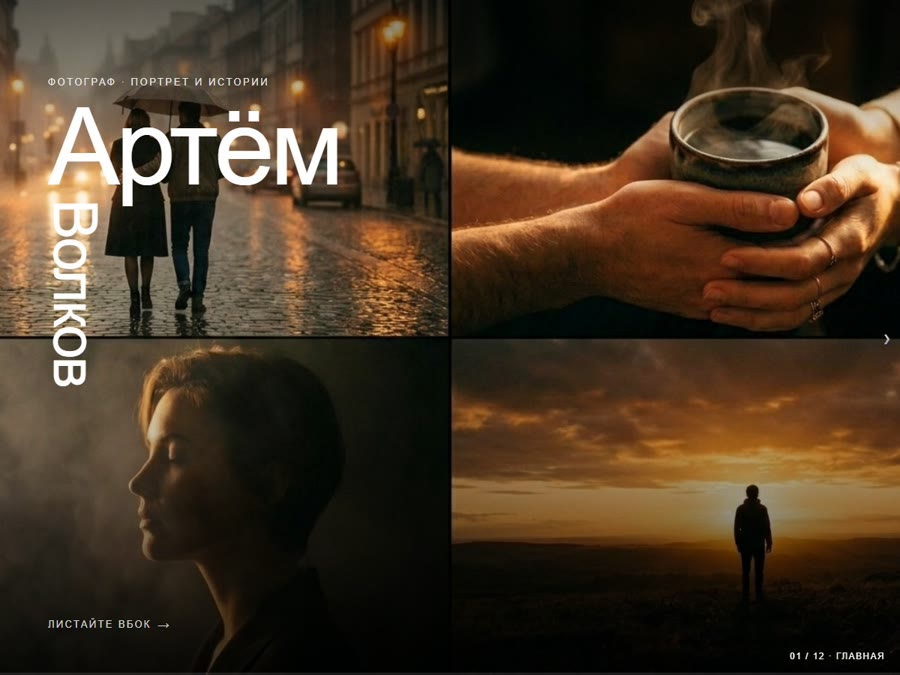
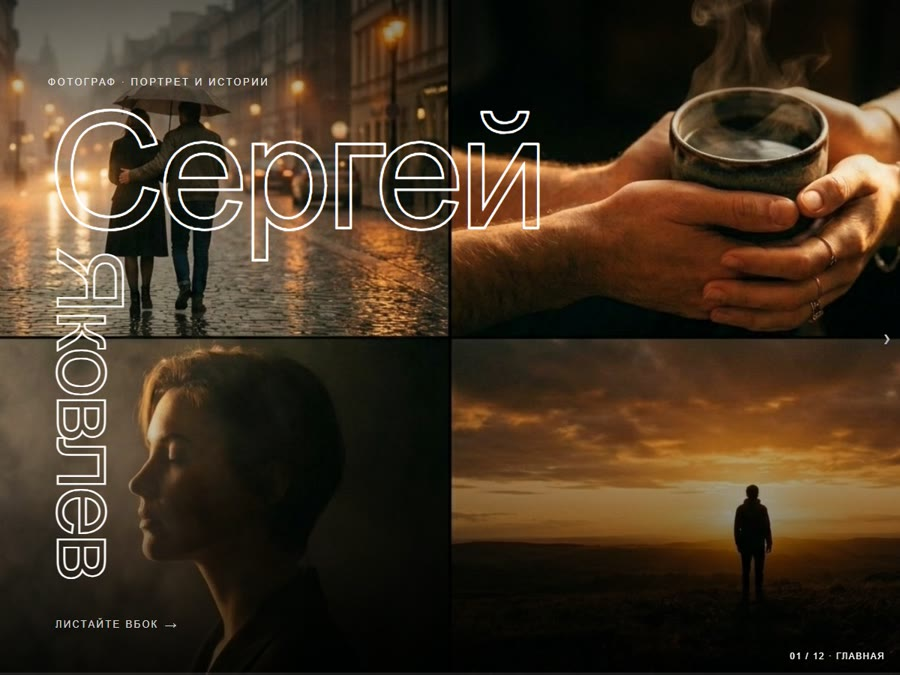
feat(photo-01): контурные заголовки ×1.5 + имя Сергей Яковлев
Крупные заголовки сделаны полыми (прозрачная заливка + обводка): белая
обводка на тёмных/фото-панелях, чёрная — на светлых (Съёмки, О фотографе).
Размер контурных заголовков увеличен в 1.5 раза; остальной текст (подписи,
абзацы, кнопки) не тронут. Имя бренда заменено на «Сергей Яковлев» — в hero,
блоке «О фотографе», футере, email и alt. Превью каталога обновлено.
Ревью мобайл+десктоп, переполнения нет, build зелёный.

Changed region(s): [[0.0311, 0.1556, 0.6222, 0.8711], [0.0622, 0.9022, 0.1867, 0.9333]]

diff --git a/src/photo-01/PhotoLanding.tsx b/src/photo-01/PhotoLanding.tsx
@@ -115,6 +115,11 @@ const PILL_GHOST = `inline-flex ${PILL_BASE}`;
 const PILL_BASE_W =
   "items-center rounded-none border border-white/80 px-4 py-2 text-[15px] sm:text-base text-white transition-colors hover:bg-white hover:text-black";
 
+// Полые (контурные) заголовки: прозрачная заливка + обводка.
+// Белая обводка — на тёмных фото/панелях, чёрная — на светлых.
+const hollowW = (px: number) => ({ color: "transparent", WebkitTextStroke: `${px}px #ffffff` });
+const hollowK = (px: number) => ({ color: "transparent", WebkitTextStroke: `${px}px #000000` });
+
 /* Данные секций. desc — короткое описание прямо на фото. id — вертикальное фото
    (мобайл), wide — широкое 16:9 (десктоп); если wide нет, на десктопе берётся id. */
 const WORKS: { id: PhotoId; wide?: PhotoId; cat: string; title: string; desc: string; year: string }[] = [
@@ -134,7 +139,7 @@ const SERVICES = [
 ];
 
 const CONTACTS = [
-  { label: "hello@artemvolkov.ru", href: "mailto:hello@artemvolkov.ru" },
+  { label: "hello@sergeyyakovlev.ru", href: "mailto:hello@sergeyyakovlev.ru" },
   { label: "Telegram", href: "https://t.me/" },
   { label: "Behance", href: "https://www.behance.net/" },
 ];
@@ -287,13 +292,13 @@ export default function PhotoLanding() {
         <Panel bg="#000000" dark>
           <img
             src={PHOTOS.heroWide.src!}
-            alt="Коллаж работ фотографа Артёма Волкова"
+            alt="Коллаж работ фотографа Сергея Яковлева"
             decoding="async"
             className="absolute inset-0 hidden h-full w-full object-cover sm:block"
           />
           <img
             src={PHOTOS.heroTall.src!}
-            alt="Коллаж работ фотографа Артёма Волкова"
+            alt="Коллаж работ фотографа Сергея Яковлева"
             decoding="async"
             className="absolute inset-0 h-full w-full object-cover sm:hidden"
           />
@@ -312,26 +317,27 @@ export default function PhotoLanding() {
               </span>
               <h1
                 className="mt-3 text-white"
-                style={{ fontWeight: 400, fontSize: "clamp(3.4rem, 12vw, 9rem)", letterSpacing: "-0.04em", lineHeight: 0.9 }}
+                style={{ fontWeight: 400, fontSize: "clamp(5.1rem, 18vw, 13.5rem)", letterSpacing: "-0.04em", lineHeight: 0.9, ...hollowW(2.5) }}
               >
-                Артём
+                Сергей
               </h1>
-              {/* Волков — вертикально, выезжает вниз из-под имени, по левому краю (вровень с «А») */}
+              {/* Яковлев — вертикально, выезжает вниз из-под имени, по левому краю (вровень с «С») */}
               <div className="mt-1 overflow-hidden">
                 <motion.span
                   className="inline-block text-white"
                   style={{
                     writingMode: "vertical-rl",
                     fontWeight: 400,
-                    fontSize: "clamp(2.2rem, 9vh, 6rem)",
+                    fontSize: "clamp(3.3rem, 13.5vh, 9rem)",
                     letterSpacing: "-0.04em",
                     lineHeight: 0.9,
+                    ...hollowW(2),
                   }}
                   initial={reduceMotion ? false : { y: "-100%" }}
                   animate={reduceMotion ? undefined : { y: "0%" }}
                   transition={{ duration: 1, delay: 0.2, ease: [0.16, 1, 0.3, 1] }}
                 >
-                  Волков
+                  Яковлев
                 </motion.span>
               </div>
             </div>
@@ -369,8 +375,8 @@ export default function PhotoLanding() {
                 Вступление
               </span>
               <p
-                className="mt-6 max-w-[20ch] text-[clamp(2rem,5.5vw,4.5rem)] text-white"
-                style={{ fontWeight: 400, letterSpacing: "-0.03em", lineHeight: 1.02 }}
+                className="mt-6 max-w-[20ch] text-[clamp(3rem,8.25vw,6.75rem)] text-white"
+                style={{ fontWeight: 400, letterSpacing: "-0.03em", lineHeight: 1.02, ...hollowW(1.5) }}
               >
                 Снимаю людей и то, что между ними.
               </p>
@@ -405,7 +411,7 @@ export default function PhotoLanding() {
                 <div className={`${WRAP} pb-16 sm:pb-20`}>
                   <Reveal>
                     <span className="text-[13px] uppercase tracking-[0.16em]" style={{ color: RED }}>{w.cat}</span>
-                    <h2 className="mt-3 text-white text-[clamp(2.6rem,8vw,5rem)]" style={{ fontWeight: 400, letterSpacing: "-0.03em", lineHeight: 0.96 }}>
+                    <h2 className="mt-3 text-white text-[clamp(3.9rem,12vw,7.5rem)]" style={{ fontWeight: 400, letterSpacing: "-0.03em", lineHeight: 0.96, ...hollowW(2) }}>
                       {w.title}
                     </h2>
                     <p className="mt-3 max-w-[42ch] text-[16px] leading-[1.45] text-white/85 sm:text-[18px]">{w.desc}</p>
@@ -429,8 +435,8 @@ export default function PhotoLanding() {
                 Подход
               </span>
               <h2
-                className="mt-5 max-w-[16ch] text-[clamp(2.4rem,7vw,6rem)]"
-                style={{ fontWeight: 400, letterSpacing: "-0.03em", lineHeight: 0.98 }}
+                className="mt-5 max-w-[16ch] text-[clamp(3.6rem,10.5vw,9rem)]"
+                style={{ fontWeight: 400, letterSpacing: "-0.03em", lineHeight: 0.98, ...hollowW(1.5) }}
               >
                 Снимаю не лица, а то, что за ними.
               </h2>
@@ -451,8 +457,8 @@ export default function PhotoLanding() {
           <div className={`${WRAP} flex h-full flex-col justify-center`}>
             <Reveal>
               <h2
-                className="text-[clamp(2.2rem,5vw,3.5rem)]"
-                style={{ fontWeight: 600, letterSpacing: "-0.02em", lineHeight: 1 }}
+                className="text-[clamp(3.3rem,7.5vw,5.25rem)]"
+                style={{ fontWeight: 600, letterSpacing: "-0.02em", lineHeight: 1, ...hollowK(1.5) }}
               >
                 Съёмки
               </h2>
@@ -490,10 +496,10 @@ export default function PhotoLanding() {
                   О фотографе
                 </span>
                 <h2
-                  className="mt-4 text-[clamp(2.2rem,4.5vw,3.5rem)]"
-                  style={{ fontWeight: 400, letterSpacing: "-0.03em", lineHeight: 0.95 }}
+                  className="mt-4 text-[clamp(3.3rem,6.75vw,5.25rem)]"
+                  style={{ fontWeight: 400, letterSpacing: "-0.03em", lineHeight: 0.95, ...hollowK(1.5) }}
                 >
-                  Артём Волков
+                  Сергей Яковлев
                 </h2>
                 <div className="mt-5 max-w-[52ch] space-y-3 text-[16px] leading-[1.45] text-black/80 sm:text-[18px]">
                   <p>
@@ -527,8 +533,8 @@ export default function PhotoLanding() {
           <div className={`${WRAP} flex h-full flex-col justify-center`}>
             <Reveal>
               <h2
-                className="text-[clamp(3.5rem,12vw,9rem)]"
-                style={{ fontWeight: 400, letterSpacing: "-0.04em", lineHeight: 0.9 }}
+                className="text-[clamp(5.25rem,18vw,13.5rem)]"
+                style={{ fontWeight: 400, letterSpacing: "-0.04em", lineHeight: 0.9, ...hollowW(2.5) }}
               >
                 Снимем?
               </h2>
@@ -551,7 +557,7 @@ export default function PhotoLanding() {
                 >
                   ← Все шаблоны WebIK
                 </Link>
-                <span>© 2026 Артём Волков · Шаблон фотографа</span>
+                <span>© 2026 Сергей Яковлев · Шаблон фотографа</span>
                 <span className="flex items-center gap-1.5">
                   <span className="h-1.5 w-1.5 rounded-full bg-[#9fff00]" />
                   Сделано в WebIK

diff --git a/src/pages/Templates.tsx b/src/pages/Templates.tsx
@@ -37,7 +37,7 @@ const TEMPLATES: Tpl[] = [
     category: "креатив",
     ready: true,
     href: "/templates/photo-01",
-    image: "/photo-01/preview.jpg?v=3",
+    image: "/photo-01/preview.jpg?v=4",
   },
   { name: "Ресторан", category: "общепит" },
   { name: "IT-стартап", category: "технологии" },
